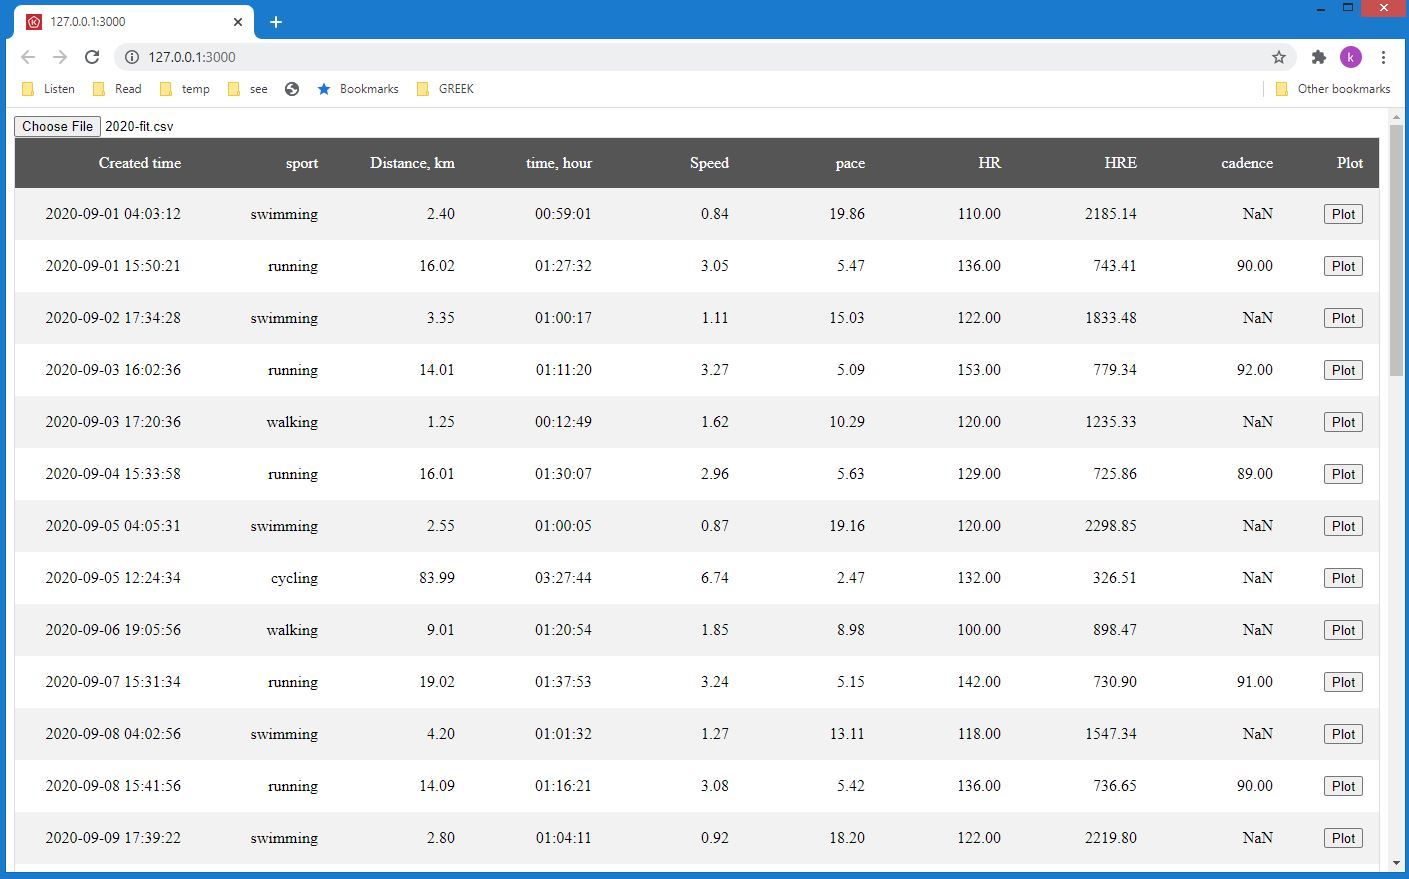
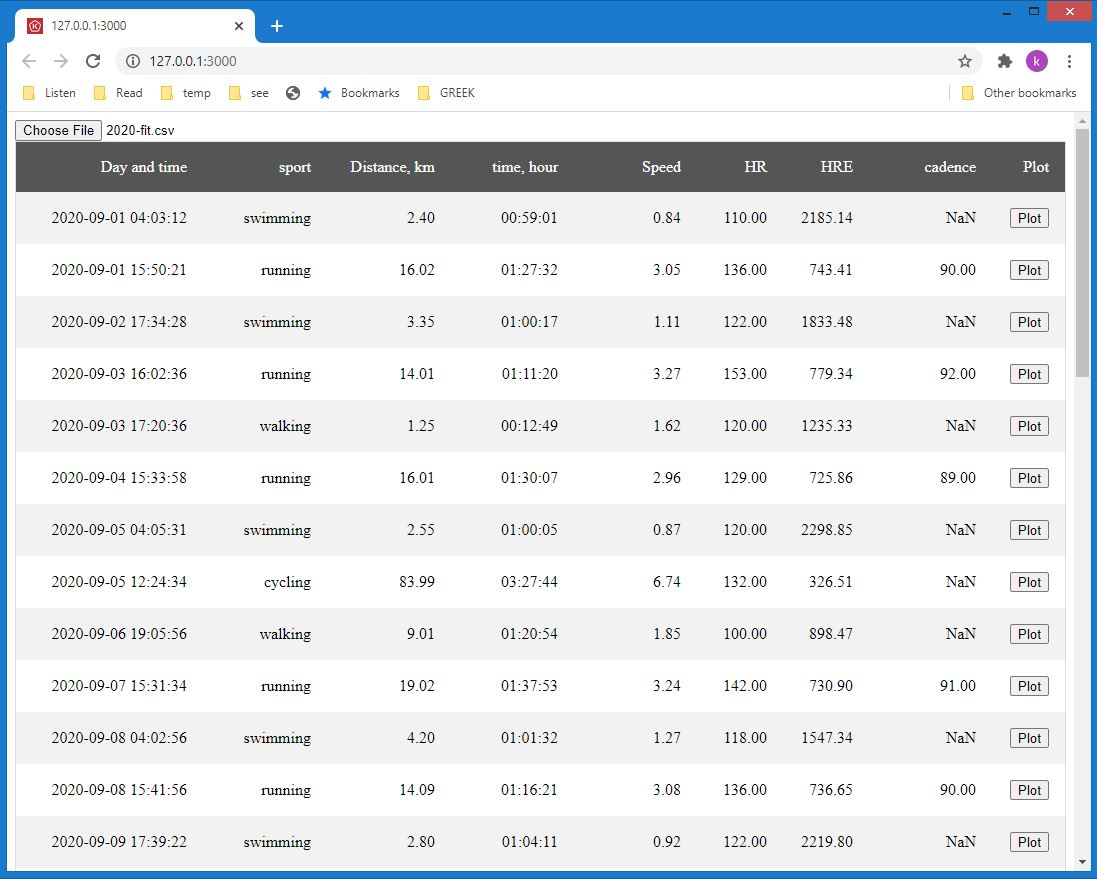
table formatting

diff --git a/src/main.js b/src/main.js
@@ -32,6 +32,15 @@ document.addEventListener('DOMContentLoaded', function () {
 
 	var csvfilename, data, headers;
 
+	var tableHeadersFlag;
+	try {
+		tableHeaders = tableHeaders;
+		tableHeadersFlag = true;
+	} catch (err) {
+		tableHeadersFlag = false;
+	}
+
+
 	/*
   var fitParser = new FitParser({
 	force: true,
@@ -46,7 +55,7 @@ document.addEventListener('DOMContentLoaded', function () {
 
 	readtable.onchange = function (e) {
 		var file = this.files[0];
-		console.log(file);
+		//console.log(file);
 		csvfilename = file.name;
 		csvReader.readAsText(file);
 	}
@@ -54,6 +63,7 @@ document.addEventListener('DOMContentLoaded', function () {
 
 	csvReader.onload = function (e) {
 		var text = e.target.result;
+		//console.log(text);
 		var lines = text.split(/[\r\n]+/g); // tolerate both Windows and Unix linebreaks
 		for (var i = linestart; i < lines.length; i++) {
 			lines[i] = lines[i].trim().replace(/\s{2,}/g, ' ');
@@ -70,28 +80,32 @@ document.addEventListener('DOMContentLoaded', function () {
 			var r = {};
 			var linedata = lines[i].split(delimiter);
 			//console.log(linedata);
-			if (linedata[0].slice(-4) === ".fit") { 
-				for (var k = 0; k < linedata.length; k++) {
-					//console.log(headers[k]);			
-					//console.log(linedata[k]);
+			for (var k = 0; k < linedata.length; k++) {
+				//console.log(headers[k]);			
+				//console.log(linedata[k]);
+				if (tableHeadersFlag) {
 					if (headers[k] in tableHeaders || headers[k] === "filename") {
 						r[headers[k]] = linedata[k];
 					}
+				} else {
+					r[headers[k]] = linedata[k];
 				}
-				data.push(r);
-			}			
+			}
+			data.push(r);
 		}
 
 		// sort out headers accoreing to tableHeaders
-		var kput = 0;
-		for (const [key, value] of Object.entries(tableHeaders)) {
-			for (k = 0; k < headers.length; k++) {
-				if (key === headers[k]) {
-					var h = headers[kput];
-					headers[kput] = headers[k];
-					headers[k] = h;
-					kput++;
-					break;
+		if (tableHeadersFlag) {
+			var kput = 0;
+			for (const [key, value] of Object.entries(tableHeaders)) {
+				for (k = 0; k < headers.length; k++) {
+					if (key === headers[k]) {
+						var h = headers[kput];
+						headers[kput] = headers[k];
+						headers[k] = h;
+						kput++;
+						break;
+					}
 				}
 			}
 		};
@@ -102,20 +116,31 @@ document.addEventListener('DOMContentLoaded', function () {
 
 		// add header for the Plot button
 		headers.push("Plot");
-		tableHeaders.Plot = "Plot";
+		if (tableHeadersFlag) tableHeaders.Plot = {
+			name: "Plot",
+			style: "width: 30px"
+		};
 
 		var row, cell;
 		const table = document.createElement("table");
 		const tHead = table.createTHead();
 		row = tHead.insertRow();
-		var w = 100/(headers.length);
+		var w = 100 / (headers.length);
 		row.style = "color: #fff; background-color: #555";
 		headers.forEach(p => {
-			cell = row.insertCell();
-			cell.textContent = tableHeaders[p];
-			var width = "width: " + (p==="time_created"? (w+w/3).toString():p === "Plot"? (w-w/3).toString(): w.toString()) +"%;";
-			cell.style = "text-align:right; word-wrap:break-word; " + width;
-			cell.tabIndex = 0;
+			if (tableHeadersFlag) {
+				if (p in tableHeaders) {
+					cell = row.insertCell();
+					cell.textContent = tableHeaders[p].name;
+					cell.style = "text-align:right; word-wrap:break-word; " + tableHeaders[p].style;
+					cell.tabIndex = 0;
+				}
+			} else {
+				cell = row.insertCell();
+				cell.textContent = p;
+				cell.style = "text-align:right; word-wrap:break-word; "
+				cell.tabIndex = 0;
+			}
 		});
 
 		const tBody = table.createTBody();
@@ -127,10 +152,11 @@ document.addEventListener('DOMContentLoaded', function () {
 					cell.innerHTML = "<button id=" + d["filename"] + " style='width: 39px; height: 20px;'>Plot</button>";
 					cell.addEventListener("click", plotdata);
 				} else {
-					var v = isNaN(d[p]) ? d[p] : parseFloat(d[p]).toFixed(2); // toPrecision(6).
+					var v = isNaN(d[p]) ? (d[p] === "undefined" ? " " : d[p]) :
+						parseFloat(d[p]).toFixed(2); // toPrecision(6).
 					cell.textContent = v;
 				}
-				cell.style = "text-align:right";
+				cell.style = "text-align:right; word-wrap:break-word; "
 			});
 		}
 		document.body.appendChild(table);
@@ -154,51 +180,6 @@ document.addEventListener('DOMContentLoaded', function () {
 		}
 
 	}
-
-	function plotdata_working(e) {
-		// https://www.codemag.com/article/1511031/CRUD-in-HTML-JavaScript-and-jQuery
-		var filename = e.target.id;
-		console.log(filename);
-		var xhr = new XMLHttpRequest();
-		//xhr.onreadystatechange = httpRequestfoo;
-		xhr.onload = httpRequestfoo;
-		xhr.open('GET', filename, true);
-		xhr.responseType = 'arraybuffer';
-		xhr.onerror = function (e) {
-			console.log(error(xhr.statusText));
-		};
-		xhr.send(null);
-		// https://stackoverflow.com/questions/7255719/downloading-binary-data-using-xmlhttprequest-without-overridemimetype
-	}
-
-
-	function httpRequestfoo() {
-		if (this.readyState === 4) {
-			if (this.status === 200) {
-				blob = new Uint8Array(this.response);
-				//loadFitFile();					
-				windowFitplotter = windowFitplotter || [];
-				console.log(windowFitplotter);
-				sessionStorage.setItem("blob", blob);
-				if (windowFitplotter.window) {
-					loadFitFile(blob);
-				} else {
-					windowFitplotter = window.open('fitplotter.html');
-				}
-				/*   
-			   		fitParser.parse(blob, function (error, data) {
-						if (error) {
-							console.error(error);
-				   		} 
-				   		else {
-							console.log(data);
-				   		}
-			   		});
-				*/
-			}
-		}
-	}
-
 
 	function resizableGrid(table) {
 		var row = table.getElementsByTagName('tr')[0],

diff --git a/utilities/tableHeaders.js b/utilities/tableHeaders.js
@@ -1,0 +1,18 @@
+tableHeaders = {
+    start_time: {name: "Day and time", style: "width: 200px;"},
+    time_created: {name: "Day and time", style: "width: 125px;"},
+    sport: {name: "sport", style: "width: 10%;"},
+    //sub_sport: {name: null, style: "width: 10%;"},
+    total_distance: {name: "Distance, km", style: "width: 10%;"},
+    //total_elapsed_time: {name: null, style: "width: 10%;"},
+    total_timer_time: {name: "time, hour", style: "width: 10%"},
+    enhanced_avg_speed: {name: "Speed", style: "width: 10%;"},
+    avg_speed: {name: "Speed", style: "width: 10%;"},
+    pace: {name: "pace", style: "width: 5%;"},
+    avg_heart_rate: {name: "HR", style: "width: 7%;"},
+    HRE: {name: "HRE", style: "width: 7%;"},
+    avg_HRE: {name: "HRE", style: "width: 7%;"},
+    avg_running_cadence: {name: "cadence", style: "width: 10%;"},
+    avg_cadence: {name: "cadence", style: "width: 10%"},
+    //filename: {name: "File", style: "width: 200px;"}
+};

diff --git a/index.html b/index.html
@@ -36,24 +36,7 @@
 		}
 	</style>
 
-	<script> tableHeaders = {
-		start_time: "Day and time",
-		//time_created: "Created time",
-		sport: "sport",
-		//,sub_sport: null
-		total_distance: "Distance, km",
-		//,total_elapsed_time: null,
-		total_timer_time: "time, hour",
-		enhanced_avg_speed: "Speed",
-		avg_speed: "Speed",
-		pace: "pace",
-		avg_heart_rate: "HR",
-		avg_HRE: "HRE",
-		avg_running_cadence: "cadence",
-		avg_cadence: "cadence",
-		filename: "File"
-	};
-	</script>
+	<script src=./utilities/tableHeaders.js></script>
 	<script src=./src/main.js></script>
 </head>
 

diff --git a/CHANGELOG.md b/CHANGELOG.md
@@ -1,0 +1,14 @@
+# Changelog
+Changes to this project are documented in this file
+
+#### 2020-06-28
+- added `tableHeaders.js` for external table formatting
+#### 2020-02-27
+- README.md
+- CHANGELOG.md is started after reading nice [source](https://keepachangelog.com/en/1.0.0/)
+- few utilities `utilitites/*.js` to check FIT flie and generate table are  added, they need better diocumentation
+- src folder is cleaned
+- index.html: better table formatting
+- utilities need better diocumentation
+### 2020-02-26
+Prototype works, needs utlitities to work with tables
